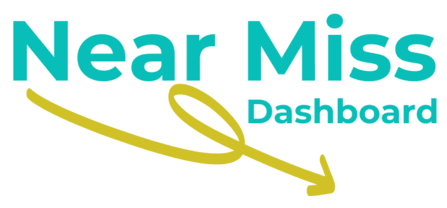
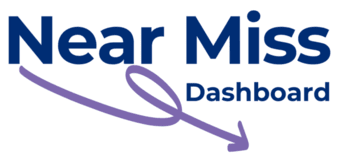
color palette changes

Changed region(s): [[0.0, 0.0932, 1.0, 0.9627], [0.5325, 0.0621, 1.0, 0.4037]]

diff --git a/templates/apphome.html b/templates/apphome.html
@@ -46,32 +46,32 @@
 <body>
     <img class="left-aligned" src="{{url_for('static', filename='nearmiss1.png') }}" alt="PlanRVA Image">
     <h3>For the PlanRVA Region</h3>
+<body>
+    <nav class="navbar navbar-expand-lg navbar-light bg-light">
+        <div class="collapse navbar-collapse" id="navbarNav">
+            <ul class="navbar-nav">
+                <li class="nav-item">
+                    <a class="nav-link" href="/">Home</a>
+                </li>
+                <li class="nav-item">
+                    <a class="nav-link" href="/dashboard">Dashboard</a>
+                </li>
+                <li class="nav-item">
+                    <a class="nav-link" href="/contact">Data Requests</a>
+                </li>
+                <li class="nav-item">
+                    <a class="nav-link" href="/about">About the Dashboard</a>
+                </li>
+                <li class="nav-item">
+                    <a class="nav-link" href="/defs">Helpful Definitions</a>
+                </li>
+                <li class="nav-item">
+                    <a class="nav-link" href="https://planrva.org/">About PlanRVA</a>
+                </li>
+            </ul>
+        </div>
+    </nav>
 
-    <body>
-        <nav class="navbar navbar-expand-lg navbar-light bg-light">
-            <div class="collapse navbar-collapse" id="navbarNav">
-                <ul class="navbar-nav">
-                    <li class="nav-item">
-                        <a class="nav-link" href="/">Home</a>
-                    </li>
-                    <li class="nav-item">
-                        <a class="nav-link" href="/dashboard">Dashboard</a>
-                    </li>
-                    <li class="nav-item">
-                        <a class="nav-link" href="/contact">Data Requests</a>
-                    </li>
-                    <li class="nav-item">
-                        <a class="nav-link" href="/about">About the Dashboard</a>
-                    </li>
-                    <li class="nav-item">
-                        <a class="nav-link" href="/defs">Helpful Definitions</a>
-                    </li>
-                    <li class="nav-item">
-                        <a class="nav-link" href="https://planrva.org/">About PlanRVA</a>
-                    </li>
-                </ul>
-            </div>
-        </nav>
 
 
 
@@ -226,10 +226,25 @@
             className: 'custom-icon',
             iconSize: [24, 24],
         });
+
         // Place the example marker with a popup
         L.marker([37.54679001050363, -77.45031004048063], { icon: customIcon }).addTo(map)
             .bindPopup('Record an event.')
             .openPopup();
+
+
+        // Add the Locate control with a custom icon
+        L.control.locate({
+            position: 'topleft',
+            icon: 'bi bi-pin-map',  // Use your desired icon class here
+            iconLoading: 'bi bi-pin-map',  // Optional: icon while locating
+            flyTo: true,  // Fly to the location
+            showPopup: false,  // Don't show the popup automatically
+            locateOptions: {
+                maxZoom: 16,
+                enableHighAccuracy: true
+            }
+        }).addTo(map);
 
         // Initialize the FeatureGroup to store editable layers
         var drawnItems = new L.FeatureGroup();

diff --git a/static/stylesheet.css b/static/stylesheet.css
@@ -56,7 +56,7 @@ li {
 }
 li a {
     display: block;
-    color: #D0C126 !important;
+    color: #7D68AE !important;
     text-align: center;
     padding: 14px 16px;
     text-decoration: none;
@@ -69,7 +69,7 @@ li a:hover {
 /* for overriding external stylesheets */
 .navbar .nav-item {
     display: block;
-    color: #D0C126 !important;
+    color: #7D68AE !important;
     text-align: center;
     padding: 14px 16px;
     text-decoration: none;
@@ -133,7 +133,7 @@ li a:hover {
     display: inline-block;
     padding: 10px 10px;
     background-color: #FFFFFF;
-    color: #D0C126;
+    color: #7D68AE;
     text-align: center;
     border: none;
     border-radius: 12px;
@@ -141,14 +141,14 @@ li a:hover {
     cursor: pointer;
 }
 .btn-default:hover {
-    background-color: #D0C126;
+    background-color: #7D68AE;
     color: #FFFFFF;
 }
 button {
     display: inline-block;
     padding: 10px 10px;
     background-color: #FFFFFF;
-    color: #D0C126;
+    color: #7D68AE;
     text-align: center;
     border: none;
     border-radius: 12px;
@@ -157,7 +157,7 @@ button {
     position: center;
 }
 button:hover {
-    background-color: #D0C126;
+    background-color: #7D68AE;
     color: #FFFFFF;
 }
 
@@ -352,7 +352,7 @@ input[type="submit"]:hover {
 
 /* Design the Footer */
 .footer {
-    background-color: #C84107;
+    background-color: #7D68AE;
     text-align: center;
     padding: 10px;
     position: relative;
